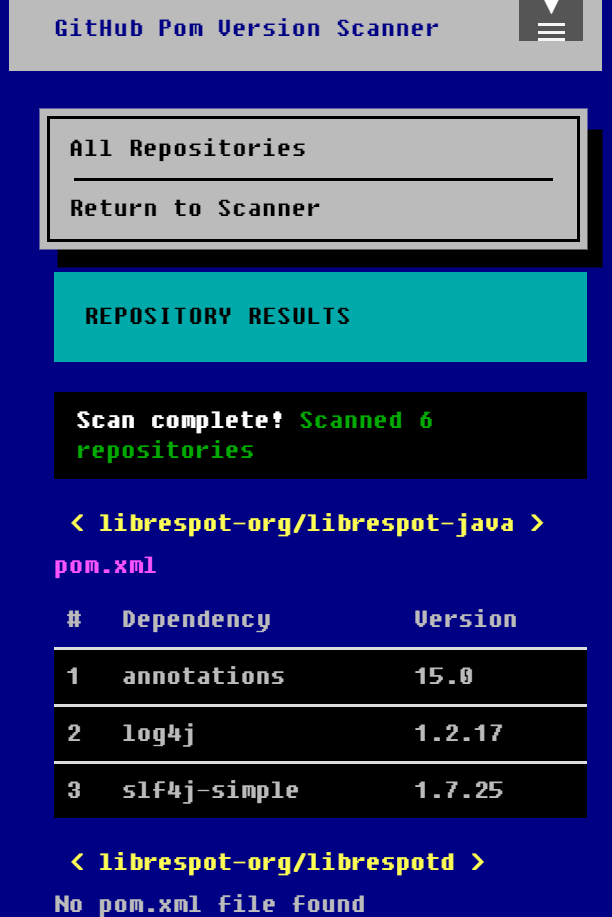
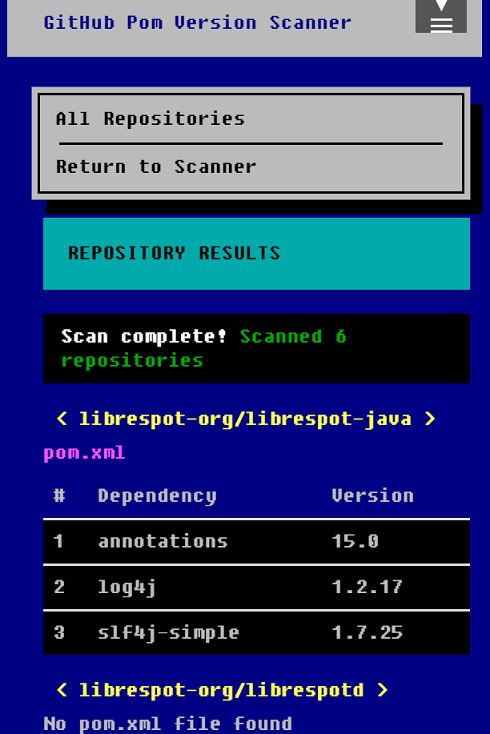
Resize screenshot to be smaller, add link to top of README

diff --git a/README.md b/README.md
@@ -1,5 +1,7 @@
 # Github Pom Version Scanner
 
+Live at https://timothyr.github.io/github-pom-version-scanner/ 
+
 A website to scan `pom.xml` files of entire GitHub organizations.  
 Intended to check if dependency versions are up-to-date at scale.
 
